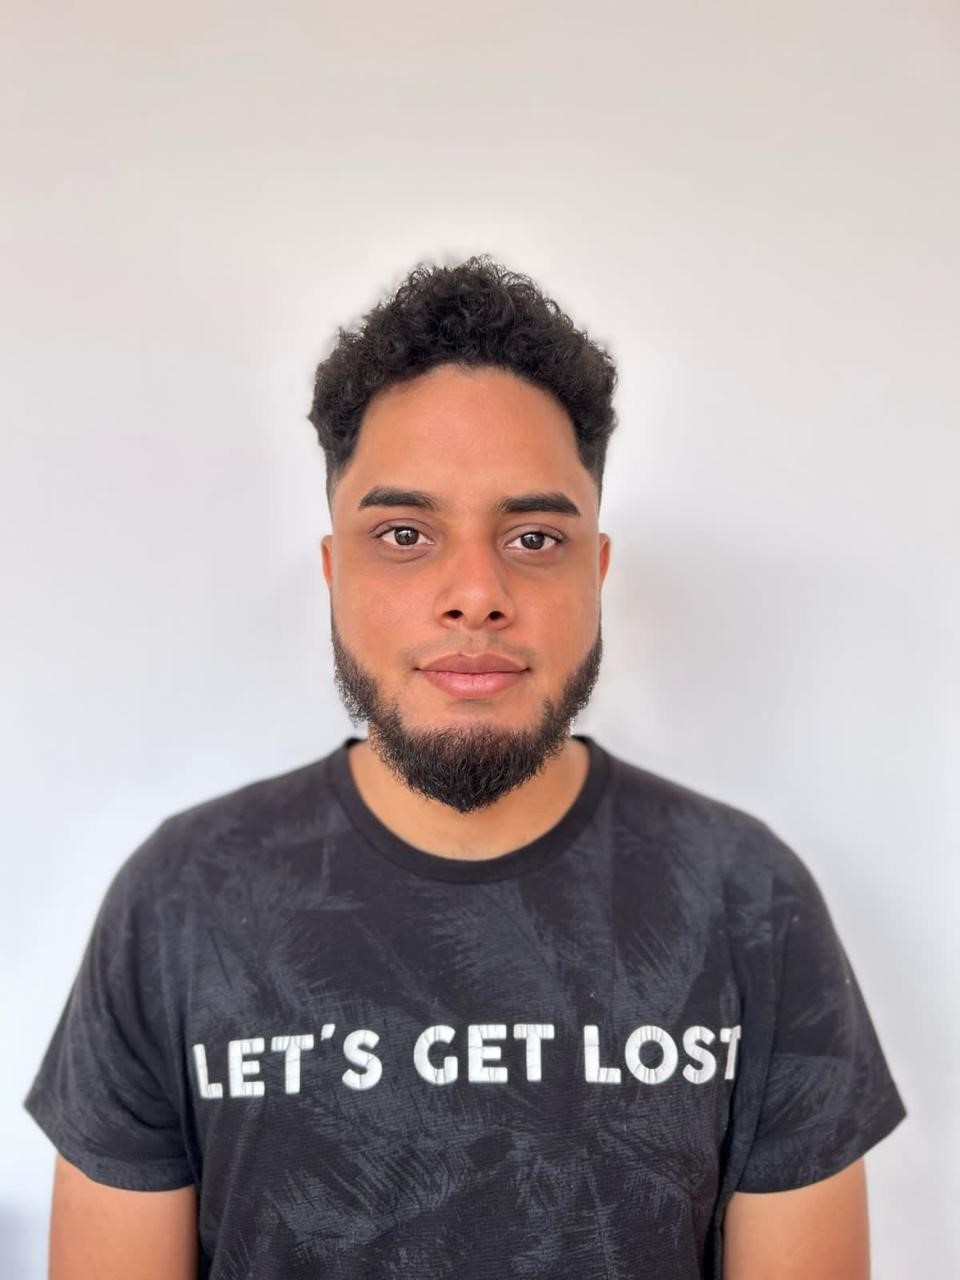
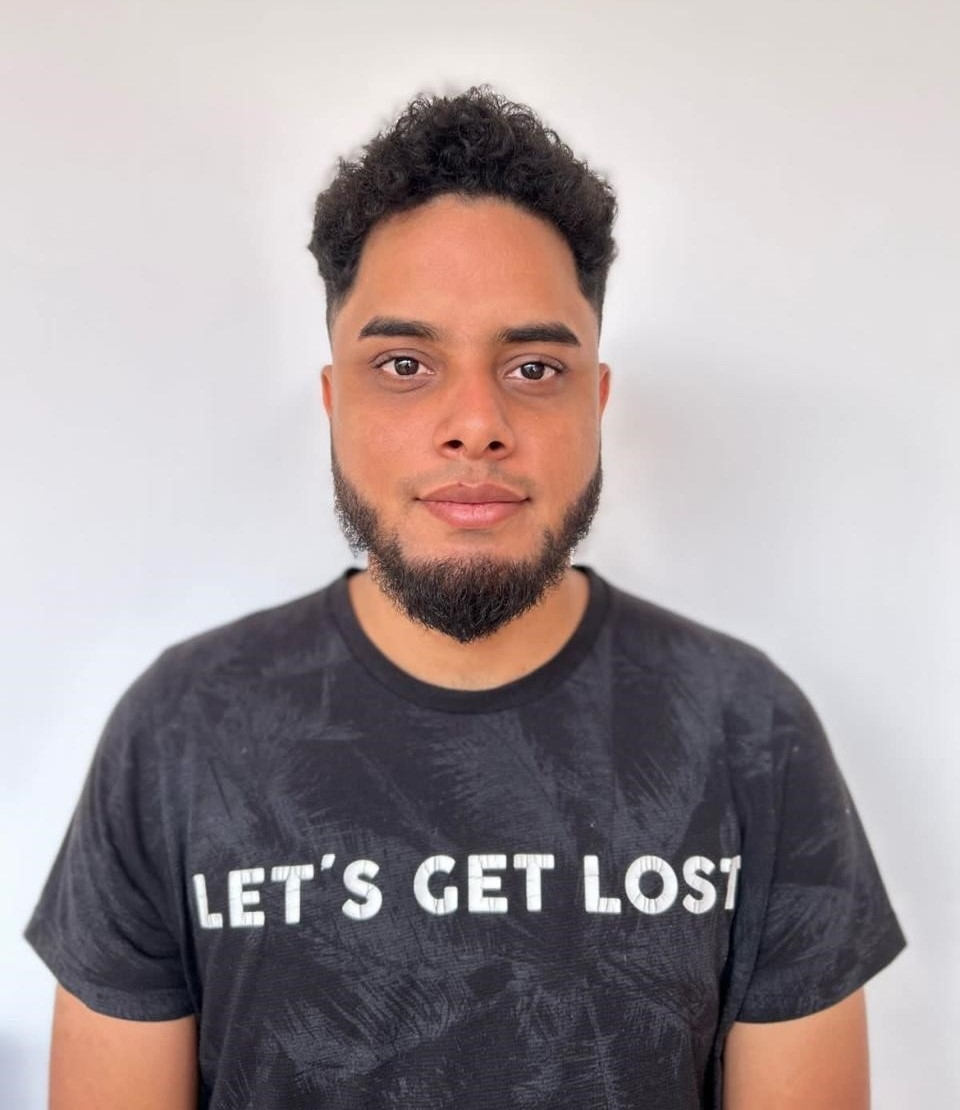
Redimensión de fotos en el componente Team y mejora en css

Changed region(s): [[0.0, 0.0306, 0.9688, 0.9495], [0.3438, 0.8883, 0.4688, 0.9495], [0.2812, 0.9189, 0.3125, 0.9495]]

diff --git a/src/app/features/team/team.component.ts b/src/app/features/team/team.component.ts
@@ -25,15 +25,15 @@ export class TeamComponent {
       github: 'https://github.com/issa-cooper'
     },
     {
-      name: 'Carlos Ruiz',
-      position: 'UI/UX Designer',
+      name: 'Juan Gil',
+      position: 'Backend Developer',
       image: 'assets/team/.jpg',
       linkedin: 'https://www.linkedin.com/in//',
       github: 'https://github.com/'
     },
     {
       name: 'Luis Martinez',
-      position: 'Project Manager',
+      position: 'Frontend Developer',
       image: 'assets/team/luis-martinez.jpg',
       linkedin: 'https://www.linkedin.com/in/luis-martínez-3a9881343/',
       github: 'https://github.com/malucefe'

diff --git a/src/app/layout/header/header.component.css b/src/app/layout/header/header.component.css
@@ -15,13 +15,13 @@ header {
     display: flex;
     justify-content: space-between;
     align-items: center;
-    border-bottom: 1px solid rgba(0,0,0,0.1);
+    border-bottom: 1px solid #0000001a;
   }
   
   header h1 {
     font-size: 2.8rem;
     font-weight: 700;
-    color: #2c3e50;
+    color: black;
     margin: 0;
   }
   

diff --git a/src/app/features/team/team.component.css b/src/app/features/team/team.component.css
@@ -44,7 +44,7 @@
 }
 
 .member-image {
-  width: 220px;
+  width: 170px;
   height: 220px;
   margin: 0 auto 25px;
   position: relative;
